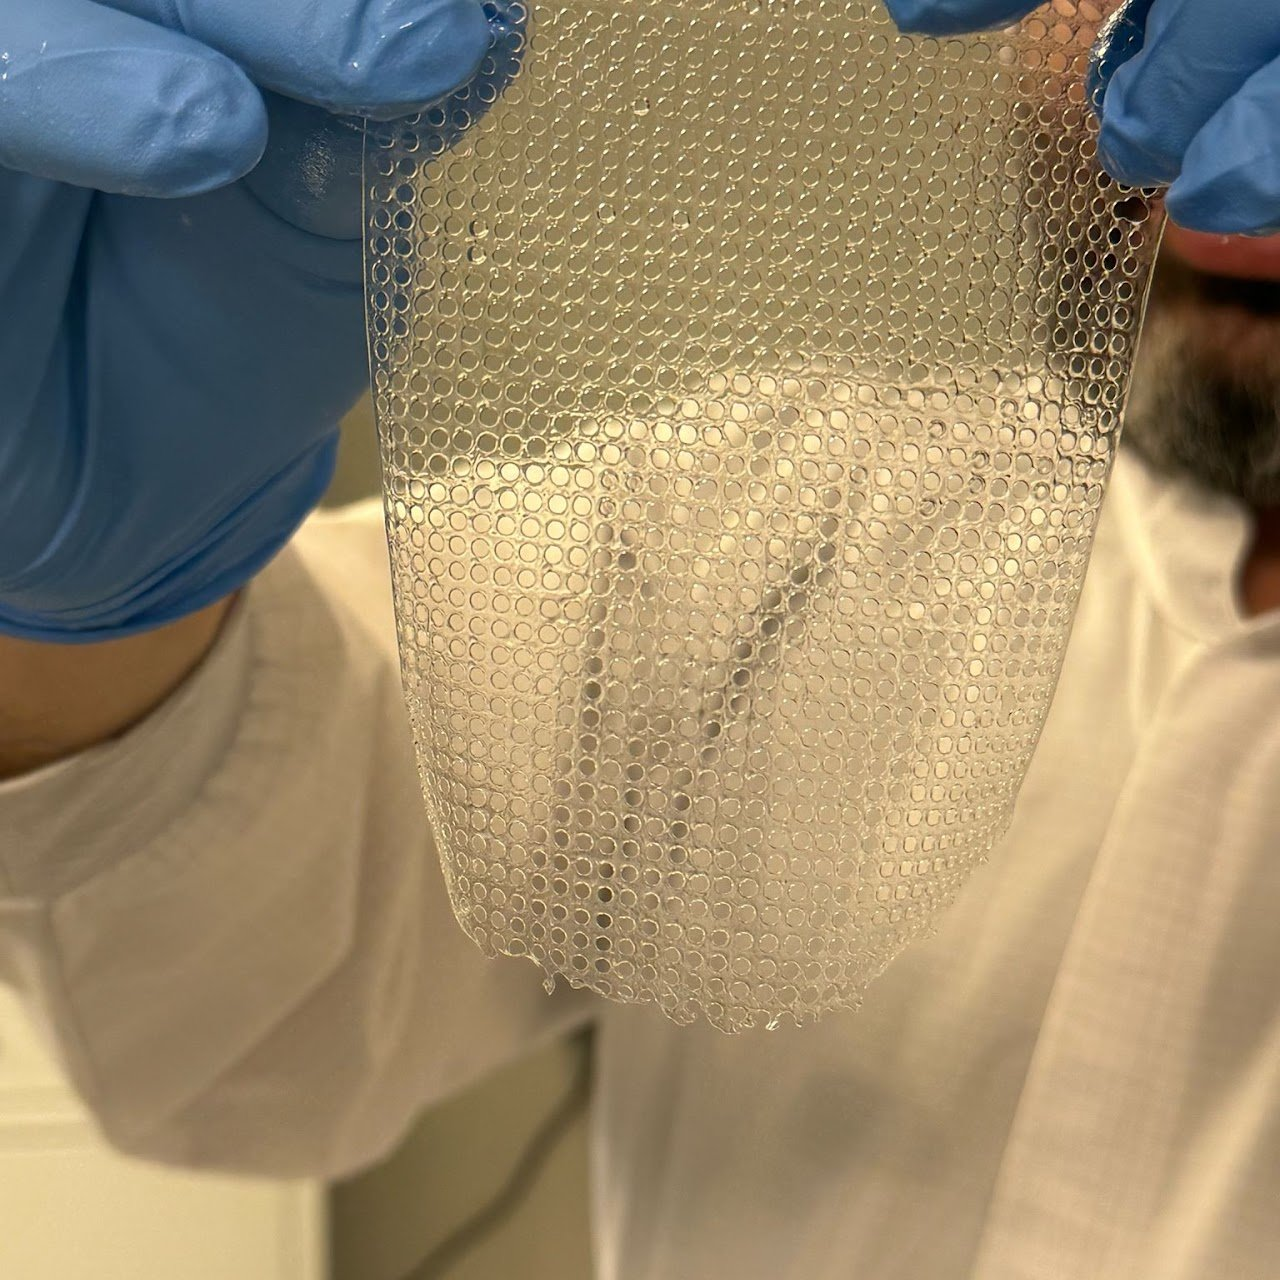
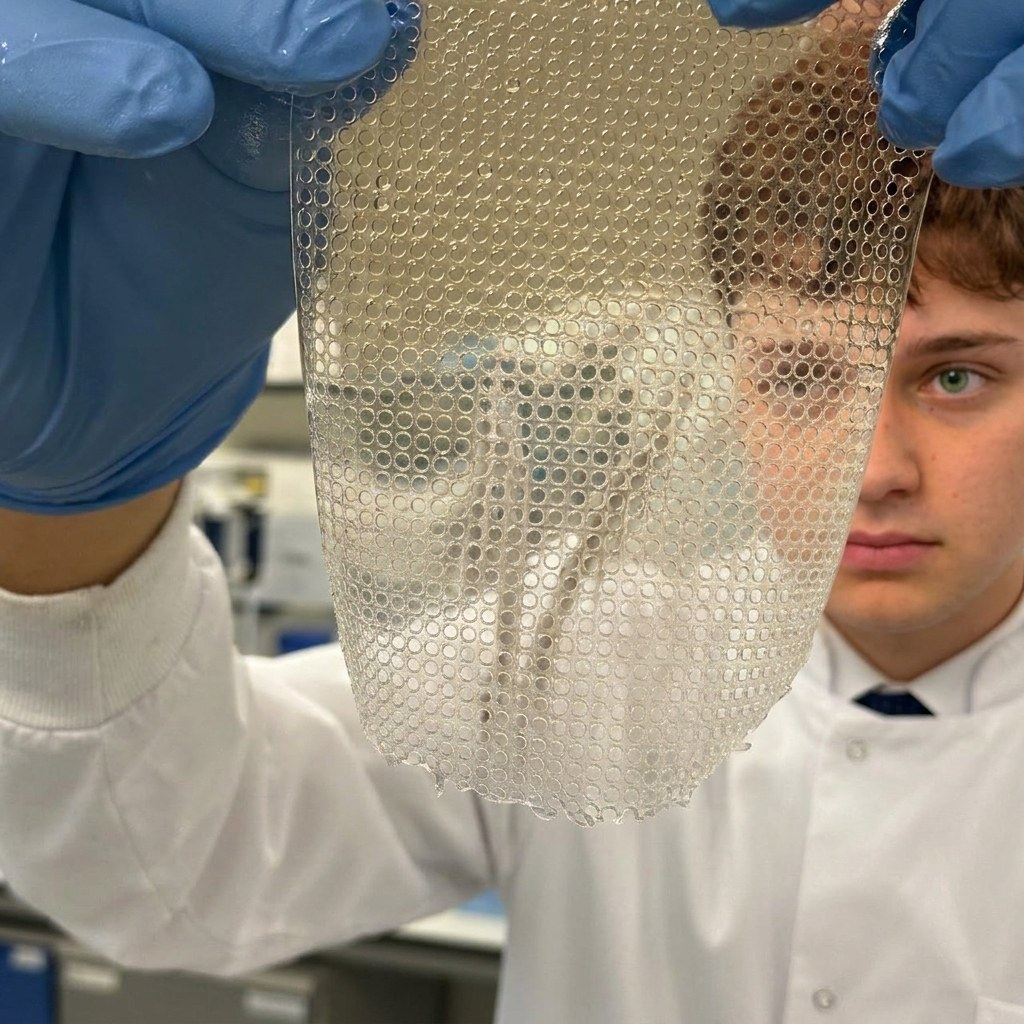
Replace research photo
Claude-Session: https://claude.ai/code/session_01QH5tEiEyByRvMifTDKeNgu

diff --git a/index.html b/index.html
@@ -79,7 +79,7 @@
 <span class="chip">Hernia mesh</span><span class="chip">Polyurethane acrylate</span><span class="chip">UV polymerisation</span><span class="chip">Benzalkonium chloride</span><span class="chip">Antimicrobial coating</span>
 </div>
 <div class="gallery">
-<img class="pic" src="images/research.jpg" alt="Hernia mesh prototype and laboratory work" loading="lazy" onerror="this.remove()">
+<img class="pic" src="images/research.jpg" alt="Porous hernia mesh prototype held up in the laboratory" loading="lazy" onerror="this.remove()">
 <img class="pic" src="images/research2.jpg" alt="Mesh prototype in a petri dish" loading="lazy" onerror="this.remove()">
 </div>
 </div>
